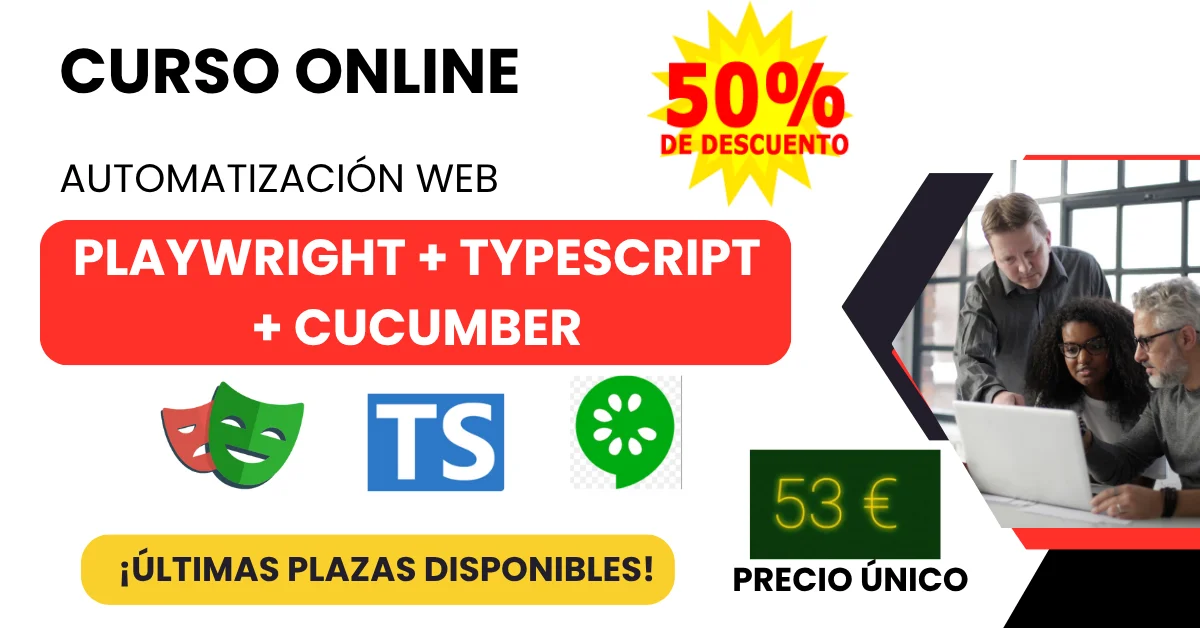
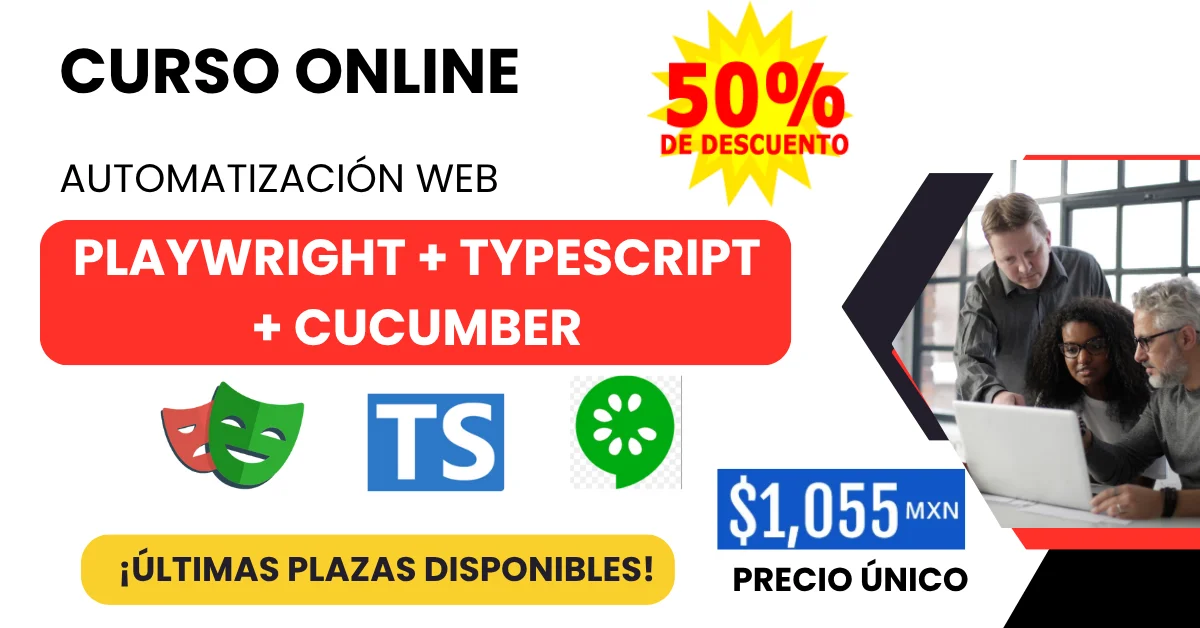
change

Changed region(s): [[0.5858, 0.6959, 0.8325, 0.9076]]

diff --git a/index.html b/index.html
@@ -130,14 +130,14 @@
   <!--NUEVO REALIZAR COMPRA-->
 <div class="barra-precio-fija">
   <div class="bloque-precios">
-    <span class="precio-descuento">€53</span>
-    <span class="precio-original">€106</span>
+    <span class="precio-descuento">$1,055</span>
+    <span class="precio-original">$2,110</span>
   </div>
   <a href="https://pay.hotmart.com/Y102328378V?off=vgwaagsk" class="btn-cesta">🛒 Realizar Compra Aquí</a>
 </div>
 <!--FIN-->
 <div class="countdown-wrapper" style="height: 61px; margin-top: -2px; background: linear-gradient(90deg, rgba(106, 27, 154, 0.8), rgba(142, 36, 170, 0.6));">
-  <p class="countdown-label" style="line-height: 1.3; font-size: 14px;font-weight: bold; color: white;">¡ÚLTIMAS PLAZAS!</p>
+  <p class="countdown-label" style="line-height: 1.3; font-size: 14px;font-weight: bold; color: white;">CUPOS LIMITADOS!</p>
   <div class="countdown-boxes">
     <div class="box red">
       <div class="time" id="days">0</div>
@@ -255,7 +255,7 @@
       <img src="img/curso.webp" alt="Vista previa del curso">
     </div>
     <div class="oferta-detalles" style="margin-top: -65px;">
-      <p class="precio-actual" style="font-size: 45px;">€53     <span class="precio-original" style="font-size: 36px;">  ~€106~</span></p>
+      <p class="precio-actual" style="font-size: 45px;">$1,055     <span class="precio-original" style="font-size: 36px;">  ~$2,110~</span></p>
       <img src="img/descuento.webp" class="descuento" style="width: 180px; margin-top: -20px;"></p>
        <div id="contador">
     <em style="font-size: 26px;">⏳ La oferta termina en:</em>
